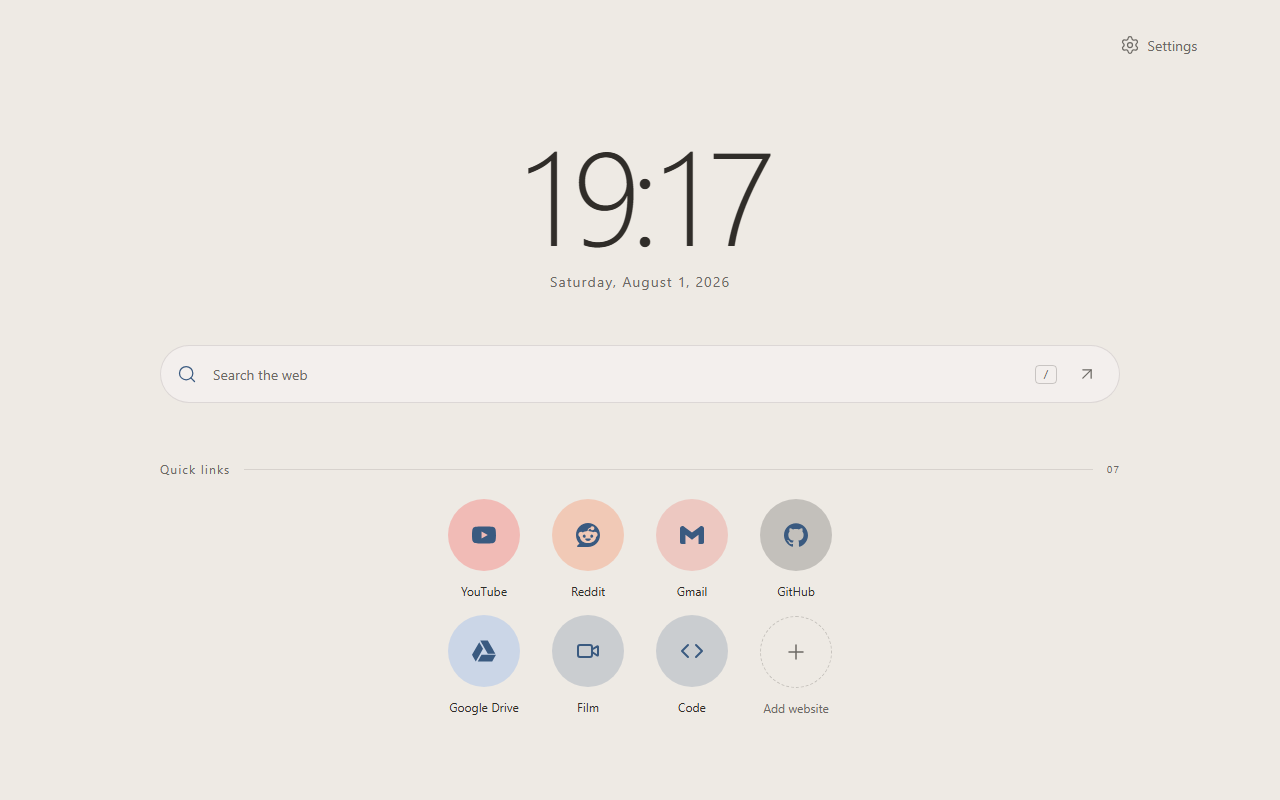
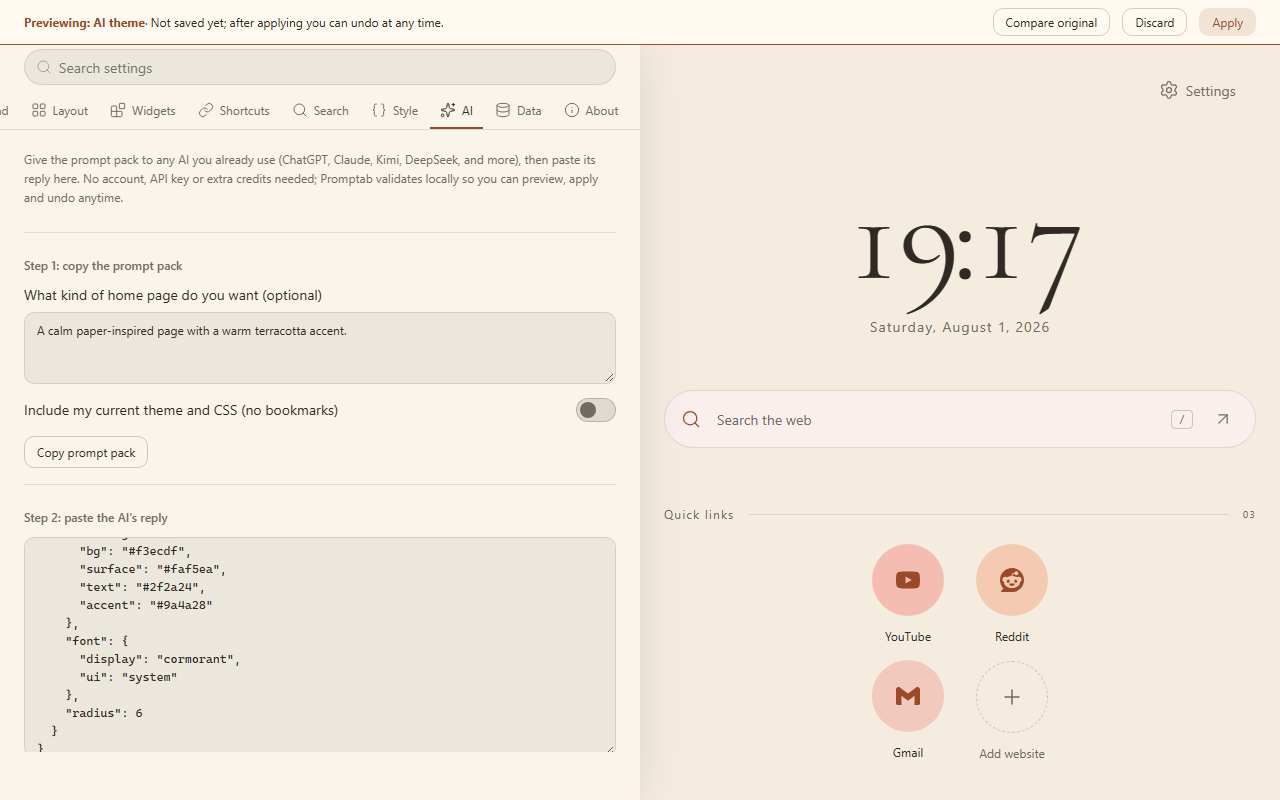
Rename product to Promptab

diff --git a/src/core/ai/docs.ts b/src/core/ai/docs.ts
@@ -71,10 +71,10 @@ function cssApiDoc(): string {
   const classes = CSS_API_CLASSES.map(name => `| \`.${name}\` | ${CLASS_NOTES[name]} |`)
   const attributes = CSS_API_ATTRIBUTES.map(name => `| \`${name}\` | ${ATTRIBUTE_NOTES[name]} |`)
   return [
-    `# Minimal New Tab CSS API (version ${CSS_API_VERSION})`,
+    `# Promptab CSS API (version ${CSS_API_VERSION})`,
     '',
     'Custom CSS may rely on exactly the names below. Anything else (other class names, DOM structure) can change in any release.',
-    'Removing or renaming a name here is a breaking change and raises the API version.',
+    'The `mnt` prefix is historical and will remain stable long-term. Removing or renaming a name here is a breaking change and raises the API version.',
     '',
     '## How custom CSS is applied',
     '',
@@ -115,9 +115,9 @@ function cssApiDoc(): string {
 
 function llmsTxt(): string {
   return [
-    '# Minimal New Tab',
+    '# Promptab',
     '',
-    '> A minimal browser new-tab extension whose look is controlled by a JSON theme pack and an optional stylesheet. This folder tells an AI assistant how to write them.',
+    '> Promptab is your new tab, designed by your AI. This folder explains how to write a theme pack; Promptab has no built-in AI service.',
     '',
     `A theme pack is one JSON object with \`"kind": "${PACK_KIND}"\` and \`"packVersion": ${PACK_VERSION}\`. Every other field is optional: \`theme\`, \`background\`, \`layout\`, \`widgets\` and \`css\`. Reply with one \`json\` code block.`,
     '',
@@ -145,7 +145,7 @@ function llmsTxt(): string {
 export function buildDocs(): Record<string, string> {
   const schema = z.toJSONSchema(aiPackSchema, { unrepresentable: 'any' })
   return {
-    'theme-pack.schema.json': json({ title: 'Minimal New Tab theme pack', ...schema }),
+    'theme-pack.schema.json': json({ title: 'Promptab theme pack', ...schema }),
     'css-api.md': cssApiDoc(),
     'llms.txt': llmsTxt(),
     ...Object.fromEntries(EXAMPLES.map(example => [`examples/${example.id}.json`, json(example.pack)])),

diff --git a/src/core/ai/prompt.ts b/src/core/ai/prompt.ts
@@ -66,7 +66,7 @@ const json = (value: unknown) => '```json\n' + JSON.stringify(value, null, 2) + 
 
 const COPY = {
   'zh-CN': {
-    role: '你在为「Minimal New Tab」浏览器新标签页扩展设计一个主题包。用户会把你的回复粘贴进扩展，由扩展校验、预览并应用。',
+    role: '你在为 Promptab 设计一个新标签页主题包。用户会把你的回复粘贴进扩展，由扩展校验、预览并应用。Promptab 只在本地处理数据；用户可以用自己已经在用的任何 AI，不需要账号、API key 或额外额度。',
     output: '输出约定',
     outputRules: [
       `只输出**一个** \`json\` 代码块，\`kind\` 必须是 \`${PACK_KIND}\`。代码块之外可以用一两句话说明设计思路。`,
@@ -113,7 +113,7 @@ const COPY = {
     none: '（用户没有写具体需求，请给出一个克制、好看的方案。）',
   },
   en: {
-    role: 'You are designing a theme pack for the "Minimal New Tab" browser new-tab extension. The user will paste your reply into the extension, which validates, previews and applies it.',
+    role: 'You are designing a new-tab theme pack for Promptab. The user will paste your reply into the extension, which validates, previews and applies it. Promptab processes data locally; the user can use any AI they already use, with no Promptab account, API key or extra AI credits required.',
     output: 'Output rules',
     outputRules: [
       `Reply with exactly **one** \`json\` code block whose \`kind\` is \`${PACK_KIND}\`. You may add a sentence or two outside the block about the design idea.`,

diff --git a/src/i18n/ai.ts b/src/i18n/ai.ts
@@ -3,7 +3,7 @@ export const aiZh = {
   'settings.tab.ai': 'AI',
 
   'ai.title': 'AI 工作台',
-  'ai.intro': '让你自己的 AI 助手（ChatGPT、Claude、Kimi、DeepSeek……）设计主题：复制提示包发给它，再把它的回复整段粘贴回来，校验后预览并应用。',
+  'ai.intro': '把提示包交给你正在使用的 AI（ChatGPT、Claude、Kimi、DeepSeek 等），再粘贴回复。无需账号、API key 或额外额度；Promptab 本地校验，预览后应用，随时可撤销。',
   'ai.step1': '第 1 步：复制提示包',
   'ai.request': '想要什么样的主页（可选）',
   'ai.requestPlaceholder': '例如：像 Kindle 那样的纸质感，衬线时钟，低饱和暖色',
@@ -78,7 +78,7 @@ export const aiEn: Record<keyof typeof aiZh, string> = {
   'settings.tab.ai': 'AI',
 
   'ai.title': 'AI workbench',
-  'ai.intro': 'Let your own AI assistant (ChatGPT, Claude, Kimi, DeepSeek, ...) design a theme: copy the prompt pack to it, paste its whole reply back here, then check, preview and apply.',
+  'ai.intro': 'Give the prompt pack to any AI you already use (ChatGPT, Claude, Kimi, DeepSeek, and more), then paste its reply here. No account, API key or extra credits needed; Promptab validates locally so you can preview, apply and undo anytime.',
   'ai.step1': 'Step 1: copy the prompt pack',
   'ai.request': 'What kind of home page do you want (optional)',
   'ai.requestPlaceholder': 'e.g. a paper feel like an e-reader, serif clock, low-saturation warm colours',

diff --git a/src/i18n/en.ts b/src/i18n/en.ts
@@ -273,7 +273,7 @@ export const en: Record<MessageKey, string> = {
   'settings.restoreSection': 'Restore section defaults',
   'settings.languageSystem': 'Follow system',
   'settings.about': 'About',
-  'settings.aboutText': 'Minimal New Tab is a quiet new-tab page. Settings stay in this browser on this device.',
+  'settings.aboutText': 'Promptab is your new tab, designed by your AI. Preview changes, undo anytime, and keep your data on this device.',
 
   'profile.heading': 'Profiles',
   'profile.active': 'Active profile',
@@ -347,7 +347,7 @@ export const en: Record<MessageKey, string> = {
   'error.settingsInvalid': 'The settings format or version is invalid.',
   'error.profileValidation': 'Invalid value at {path}: expected {expected}; received {value}.',
   'error.backupFile': 'Could not read the backup file: it is not valid JSON.',
-  'error.backupKind': 'This is not a Minimal New Tab backup file.',
+  'error.backupKind': 'This is not a Promptab backup file.',
   'error.backupVersion': 'This backup version is not supported. Update the extension and try again.',
   'error.backupSettings': 'The settings in the backup are invalid: {detail}',
   'error.backupWallpaper': 'The wallpaper in the backup is invalid or larger than 5 MB.',

diff --git a/src/i18n/zh-CN.ts b/src/i18n/zh-CN.ts
@@ -272,7 +272,7 @@ export const zhCN = {
   'settings.restoreSection': '恢复本区默认',
   'settings.languageSystem': '跟随系统',
   'settings.about': '关于',
-  'settings.aboutText': 'Minimal New Tab 是一个安静的新标签页，所有设置只保存在这台设备的浏览器中。',
+  'settings.aboutText': 'Promptab 是由你的 AI 设计的新标签页。修改可以预览、随时撤销，数据只保存在这台设备。',
 
   'profile.heading': '配置',
   'profile.active': '当前配置',
@@ -346,7 +346,7 @@ export const zhCN = {
   'error.settingsInvalid': '配置格式或版本无效',
   'error.profileValidation': '路径 {path} 无效：期望 {expected}；实际值 {value}。',
   'error.backupFile': '无法读取备份文件：不是有效的 JSON。',
-  'error.backupKind': '这不是 Minimal New Tab 的备份文件。',
+  'error.backupKind': '这不是 Promptab 的备份文件。',
   'error.backupVersion': '备份版本不受支持，请更新扩展后再试。',
   'error.backupSettings': '备份中的配置无效：{detail}',
   'error.backupWallpaper': '备份中的壁纸无效或超过 5 MB。',

diff --git a/e2e/helpers.ts b/e2e/helpers.ts
@@ -85,8 +85,8 @@ export async function setAccent(page: Page, value: string) {
  * Keep this list narrow: adding a word here hides a missing translation from the scan.
  */
 const ZH_ENGLISH_WORD_WHITELIST = new Set([
-  'aa', 'ai', 'baidu', 'bing', 'chatgpt', 'claude', 'css', 'data', 'deepseek', 'english', 'google', 'http', 'https', 'image', 'jpeg', 'json', 'jsonc', 'kb',
-  'kimi', 'kindle', 'markdown', 'mb', 'md', 'mnt', 'nighttab', 'oklch', 'otf', 'png', 'prefers-reduced-motion', 'px', 'query', 'rgb', 'rrggbb', 'svg', 'ttf', 'url', 'user', 'webp', 'woff2', 'xml',
+  'aa', 'ai', 'api', 'baidu', 'bing', 'chatgpt', 'claude', 'css', 'data', 'deepseek', 'english', 'google', 'http', 'https', 'image', 'jpeg', 'json', 'jsonc', 'key', 'kb',
+  'kimi', 'kindle', 'markdown', 'mb', 'md', 'mnt', 'nighttab', 'oklch', 'otf', 'png', 'prefers-reduced-motion', 'promptab', 'px', 'query', 'rgb', 'rrggbb', 'svg', 'ttf', 'url', 'user', 'webp', 'woff2', 'xml',
   // Kimi appears in the AI introduction; Kindle appears in the Chinese AI request placeholder; Aa is the preset preview sample. RRGGBB names the fixed color format in validation guidance.
 ])
 

diff --git a/src/widgets/ShortcutGrid.tsx b/src/widgets/ShortcutGrid.tsx
@@ -87,10 +87,10 @@ export function ShortcutGrid({ groups, shortcuts, editing, onboarding, onOnboard
     {onboarding && <section className="onboarding-card" aria-labelledby="onboarding-title">
       <div><span className="editor-kicker">{t('onboarding.kicker')}</span><h2 id="onboarding-title">{t('onboarding.title')}</h2><p>{t('onboarding.description')}</p></div>
       <div className="onboarding-actions">
-        <button type="button" data-primary onClick={() => onOnboardingAction('add')}>{t('onboarding.add')}</button>
+        <button type="button" data-primary onClick={() => onOnboardingAction('ai')}>{t('onboarding.ai')}</button>
+        <button type="button" onClick={() => onOnboardingAction('add')}>{t('onboarding.add')}</button>
         <button type="button" onClick={() => onOnboardingAction('import')}>{t('onboarding.import')}</button>
         <button type="button" onClick={() => onOnboardingAction('theme')}>{t('onboarding.theme')}</button>
-        <button type="button" onClick={() => onOnboardingAction('ai')}>{t('onboarding.ai')}</button>
       </div>
     </section>}
     {editing && <div className="bookmark-edit-tools">

diff --git a/e2e/m3b-edit-mode.spec.ts b/e2e/m3b-edit-mode.spec.ts
@@ -9,6 +9,8 @@ test('desktop edit mode is separate from settings and can be toggled with E', as
   await expect(page.locator('.bookmarks .shortcuts-heading')).toHaveCount(0)
   await expect(page.locator('.bookmarks .add-shortcut')).toHaveCount(0)
   await expect(page.locator('.shortcut')).toHaveCount(0)
+  await expect(page.locator('.onboarding-actions button[data-primary]')).toHaveText('用 AI 创建')
+  await expect(page.locator('.onboarding-actions button').filter({ hasText: '添加第一个网站' })).not.toHaveAttribute('data-primary')
   await expect(page).toHaveScreenshot('onboarding-fresh-1440x900.png')
 
   await page.keyboard.press('e')

diff --git a/src/features/settings/BackupSection.tsx b/src/features/settings/BackupSection.tsx
@@ -23,7 +23,7 @@ export function BackupSection({ settings, t, onError, recovery = false, store }:
       const url = URL.createObjectURL(new Blob([json], { type: 'application/json' }))
       const link = document.createElement('a')
       link.href = url
-      link.download = `minimal-new-tab-${new Date().toISOString().slice(0, 10)}.json`
+      link.download = `promptab-${new Date().toISOString().slice(0, 10)}.json`
       link.click()
       setTimeout(() => URL.revokeObjectURL(url), 1000)
       setStatus('backup.exported')

diff --git a/store/privacy-policy.md b/store/privacy-policy.md
@@ -1,8 +1,8 @@
-# Minimal New Tab Privacy Policy
+# Promptab Privacy Policy
 
 **Effective date: 2026-11-01**
 
-Minimal New Tab is a browser new-tab extension. It is designed to keep user data in the browser and does not include an account system, advertising SDK, analytics, telemetry, or a remote application server.
+Promptab is a browser new-tab extension. It is designed to keep user data in the browser and does not include an account system, advertising SDK, analytics, telemetry, or a remote application server.
 
 ## Data stored on your device
 
@@ -35,7 +35,7 @@ You can remove extension data through the extension's reset or delete controls, 
 
 ## Changes and contact
 
-This policy may be updated when the extension's data practices change. The repository that distributes Minimal New Tab is the source for the current policy and project contact details.
+This policy may be updated when the extension's data practices change. The repository that distributes Promptab is the source for the current policy and project contact details.
 
 This policy is informational and is not legal advice.
 
@@ -43,6 +43,6 @@ This policy is informational and is not legal advice.
 
 ## 中文摘要
 
-Minimal New Tab 不包含账号、广告 SDK、分析或遥测服务。设置、配置文件、书签/快捷方式、主题、自定义 CSS 以及本地图片和字体保存在浏览器扩展存储中。`bookmarks` 权限为可选权限，仅在你主动选择导入浏览器书签时请求；拒绝后仍可使用其他功能。
+Promptab 不包含账号、广告 SDK、分析或遥测服务。设置、配置文件、书签/快捷方式、主题、自定义 CSS 以及本地图片和字体保存在浏览器扩展存储中。`bookmarks` 权限为可选权限，仅在你主动选择导入浏览器书签时请求；拒绝后仍可使用其他功能。
 
 自动网站图标会优先使用浏览器的 favicon 接口，并可能回退请求相应网站 origin 的 `/favicon.ico`。搜索提交会把查询发送到你配置的搜索服务，打开快捷方式会访问对应网站；远程壁纸或远程图片导入也会向相应地址发起请求。这些请求由你主动使用的功能触发，并受目标服务的隐私政策约束。扩展本身不通过这些请求进行分析或出售个人信息。

diff --git a/README.md b/README.md
@@ -1,8 +1,12 @@
-# Minimal New Tab
+# Promptab
 
 English | [简体中文](README.zh-CN.md)
 
-A quiet, customizable new tab extension for Edge (Chromium, Manifest V3). Still under development.
+**Describe it. Paste it. Done.**
+
+Your new tab, designed by your AI. Bring any AI you already use—ChatGPT, Claude, Kimi, DeepSeek, and more. No Promptab account, API key, or AI credits required. Preview changes, undo anytime, and keep your data on this device.
+
+<!-- Demo recording will be added at docs/assets/demo.gif. -->
 
 ## Features
 
